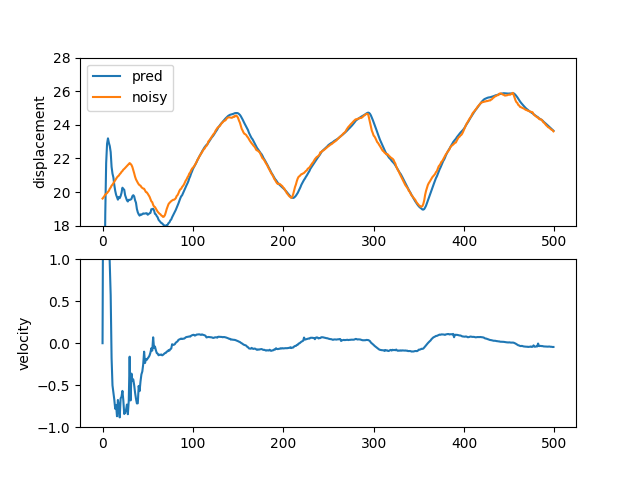
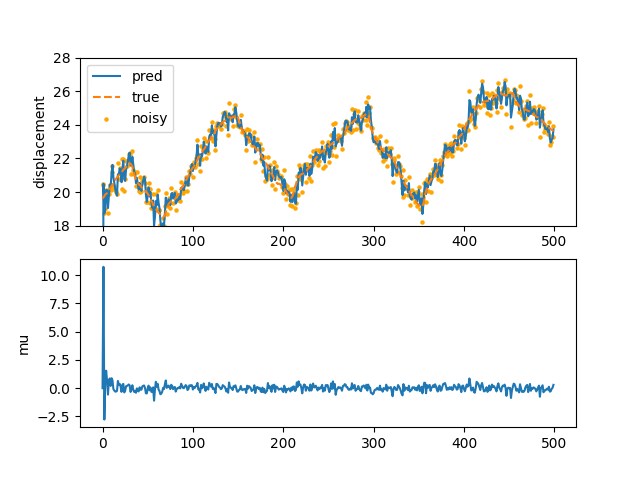
'm'

diff --git a/inference.py b/inference.py
@@ -317,18 +317,19 @@ def plot_result_from_stored(datapath = 'experiments/data/2d/x_ns.npz', resultpat
     
 
 def inf_1d_fish(num_particles = 100, datapath=r'C:\Users\95414\Desktop\CUED\phd\year1\mycode\data\fish\3DZeF20Lables\train\ZebraFish-01\gt\gt.txt'):
-    y_ns = extract_track(datapath)[0,:500,0]
-    num_particles = 100
-
     l = -0.05
     c = 10
     N = 500
     delta_t = 1
-    sigma_w = 0.05
-    sigma_mu = 0.015
-    mu0s = [0.1, 0.05]
-    alpha = 1.2
-    k_v = 1e3 # 1.5e4 for alpha=0.9
+    sigma_w = 0.1
+    sigma_mu = 1e-3
+    alpha = 1.5
+    k_v = 10 # 1.5e4 for alpha=0.9
+
+    x_ns = extract_track(datapath)[0,:N,0]
+    # add noise
+    y_ns = x_ns + +np.random.normal(0, sigma_w*k_v, N)
+    num_particles = 200
 
     n_mus, n_vars, n_log_ws, E_ns = particle_filter_1d(y_ns, num_particles, c, delta_t, sigma_mu, sigma_w, k_v*sigma_w, alpha, l, delta_t)
     average, std3, _ ,xs, fxs = process_filter_results(n_mus, n_vars, n_log_ws, E_ns, sigma_w)
@@ -339,13 +340,14 @@ def inf_1d_fish(num_particles = 100, datapath=r'C:\Users\95414\Desktop\CUED\phd\
     plt.ylabel('displacement')
     pred_xs = average[:,:2] - alpha/(alpha-1) * c**(1-1/alpha)*average[:,2:4]
     plt.plot(pred_xs[:,0])
-    plt.plot(y_ns)
+    plt.plot(x_ns, linestyle = '--', color = 'red')
+    plt.scatter(range(N),y_ns,color='orange',s=5)
     plt.ylim([18,28])
-    plt.legend(['pred','noisy'])
+    plt.legend(['pred','true','noisy'])
     plt.subplot(2,1,2)
-    plt.ylabel('velocity')
-    plt.plot(pred_xs[:,1])
-    plt.ylim([-1,1])
+    plt.ylabel('mu')
+    plt.plot(pred_xs[:,-1])
+    plt.ylim([min(pred_xs[25:,-1]),max(pred_xs[25:,-1])])
     plt.savefig(f'experiments/figure/real_data/xs_{int(alpha*10)}.png')
     
 if __name__=='__main__':
